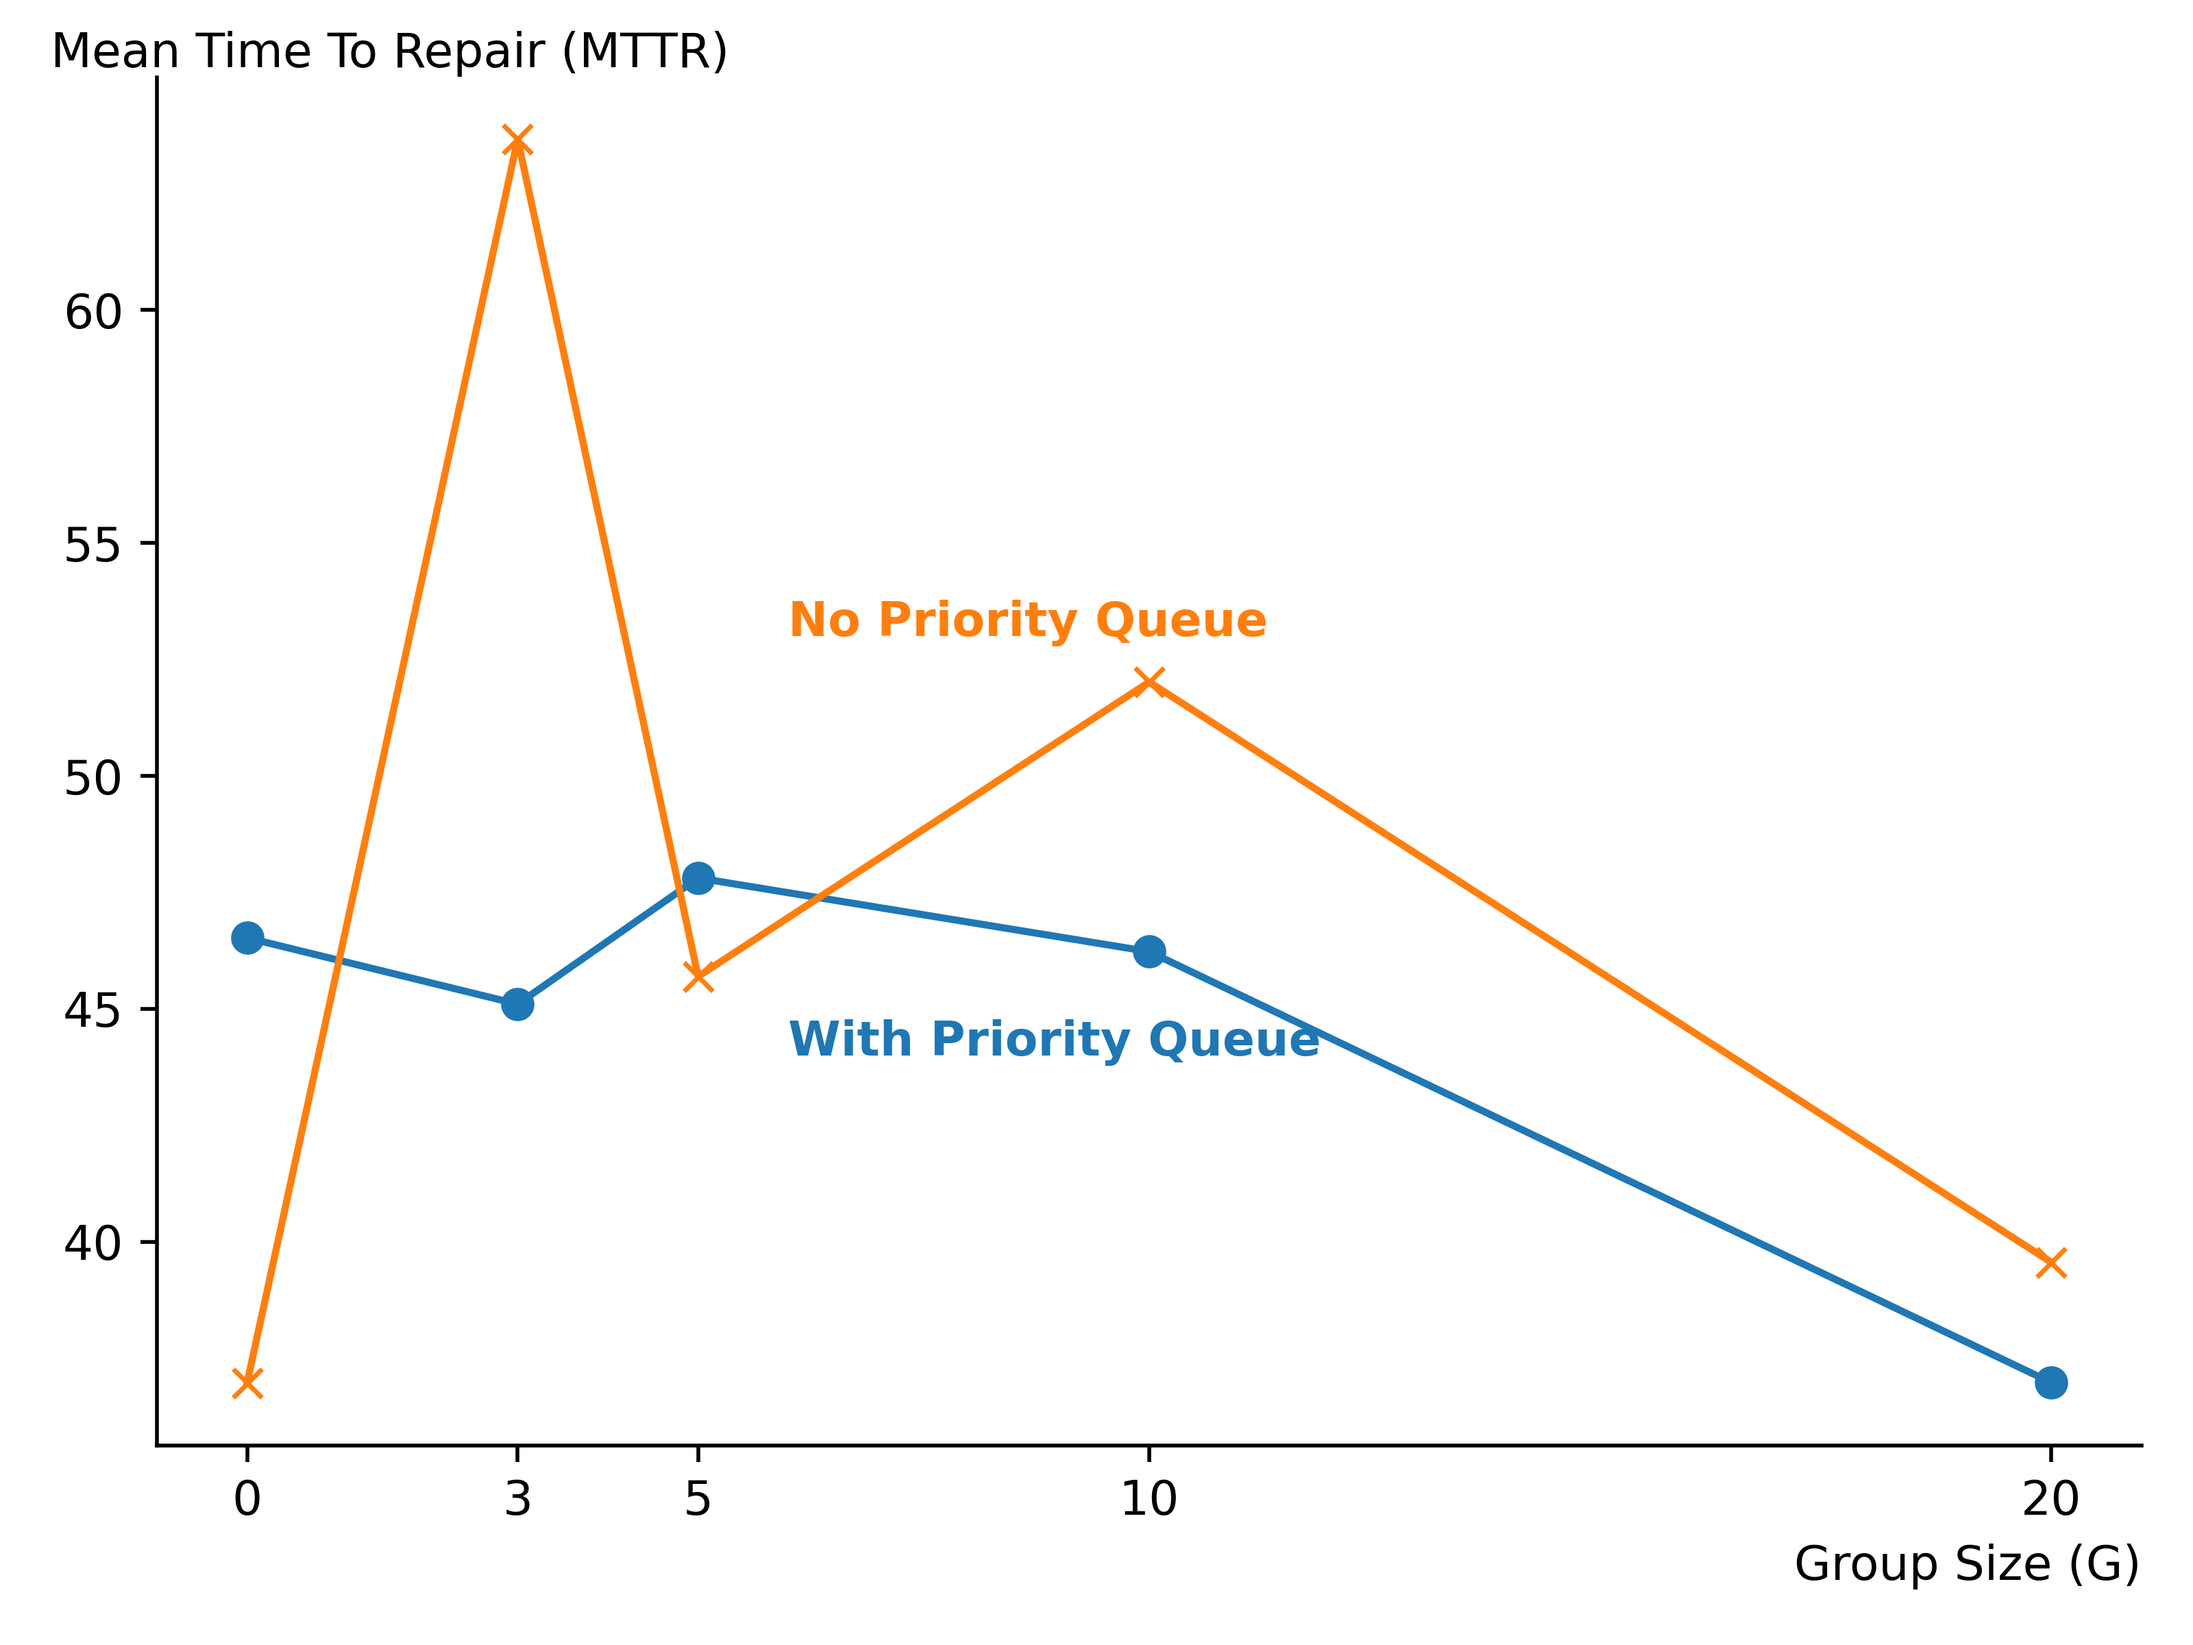
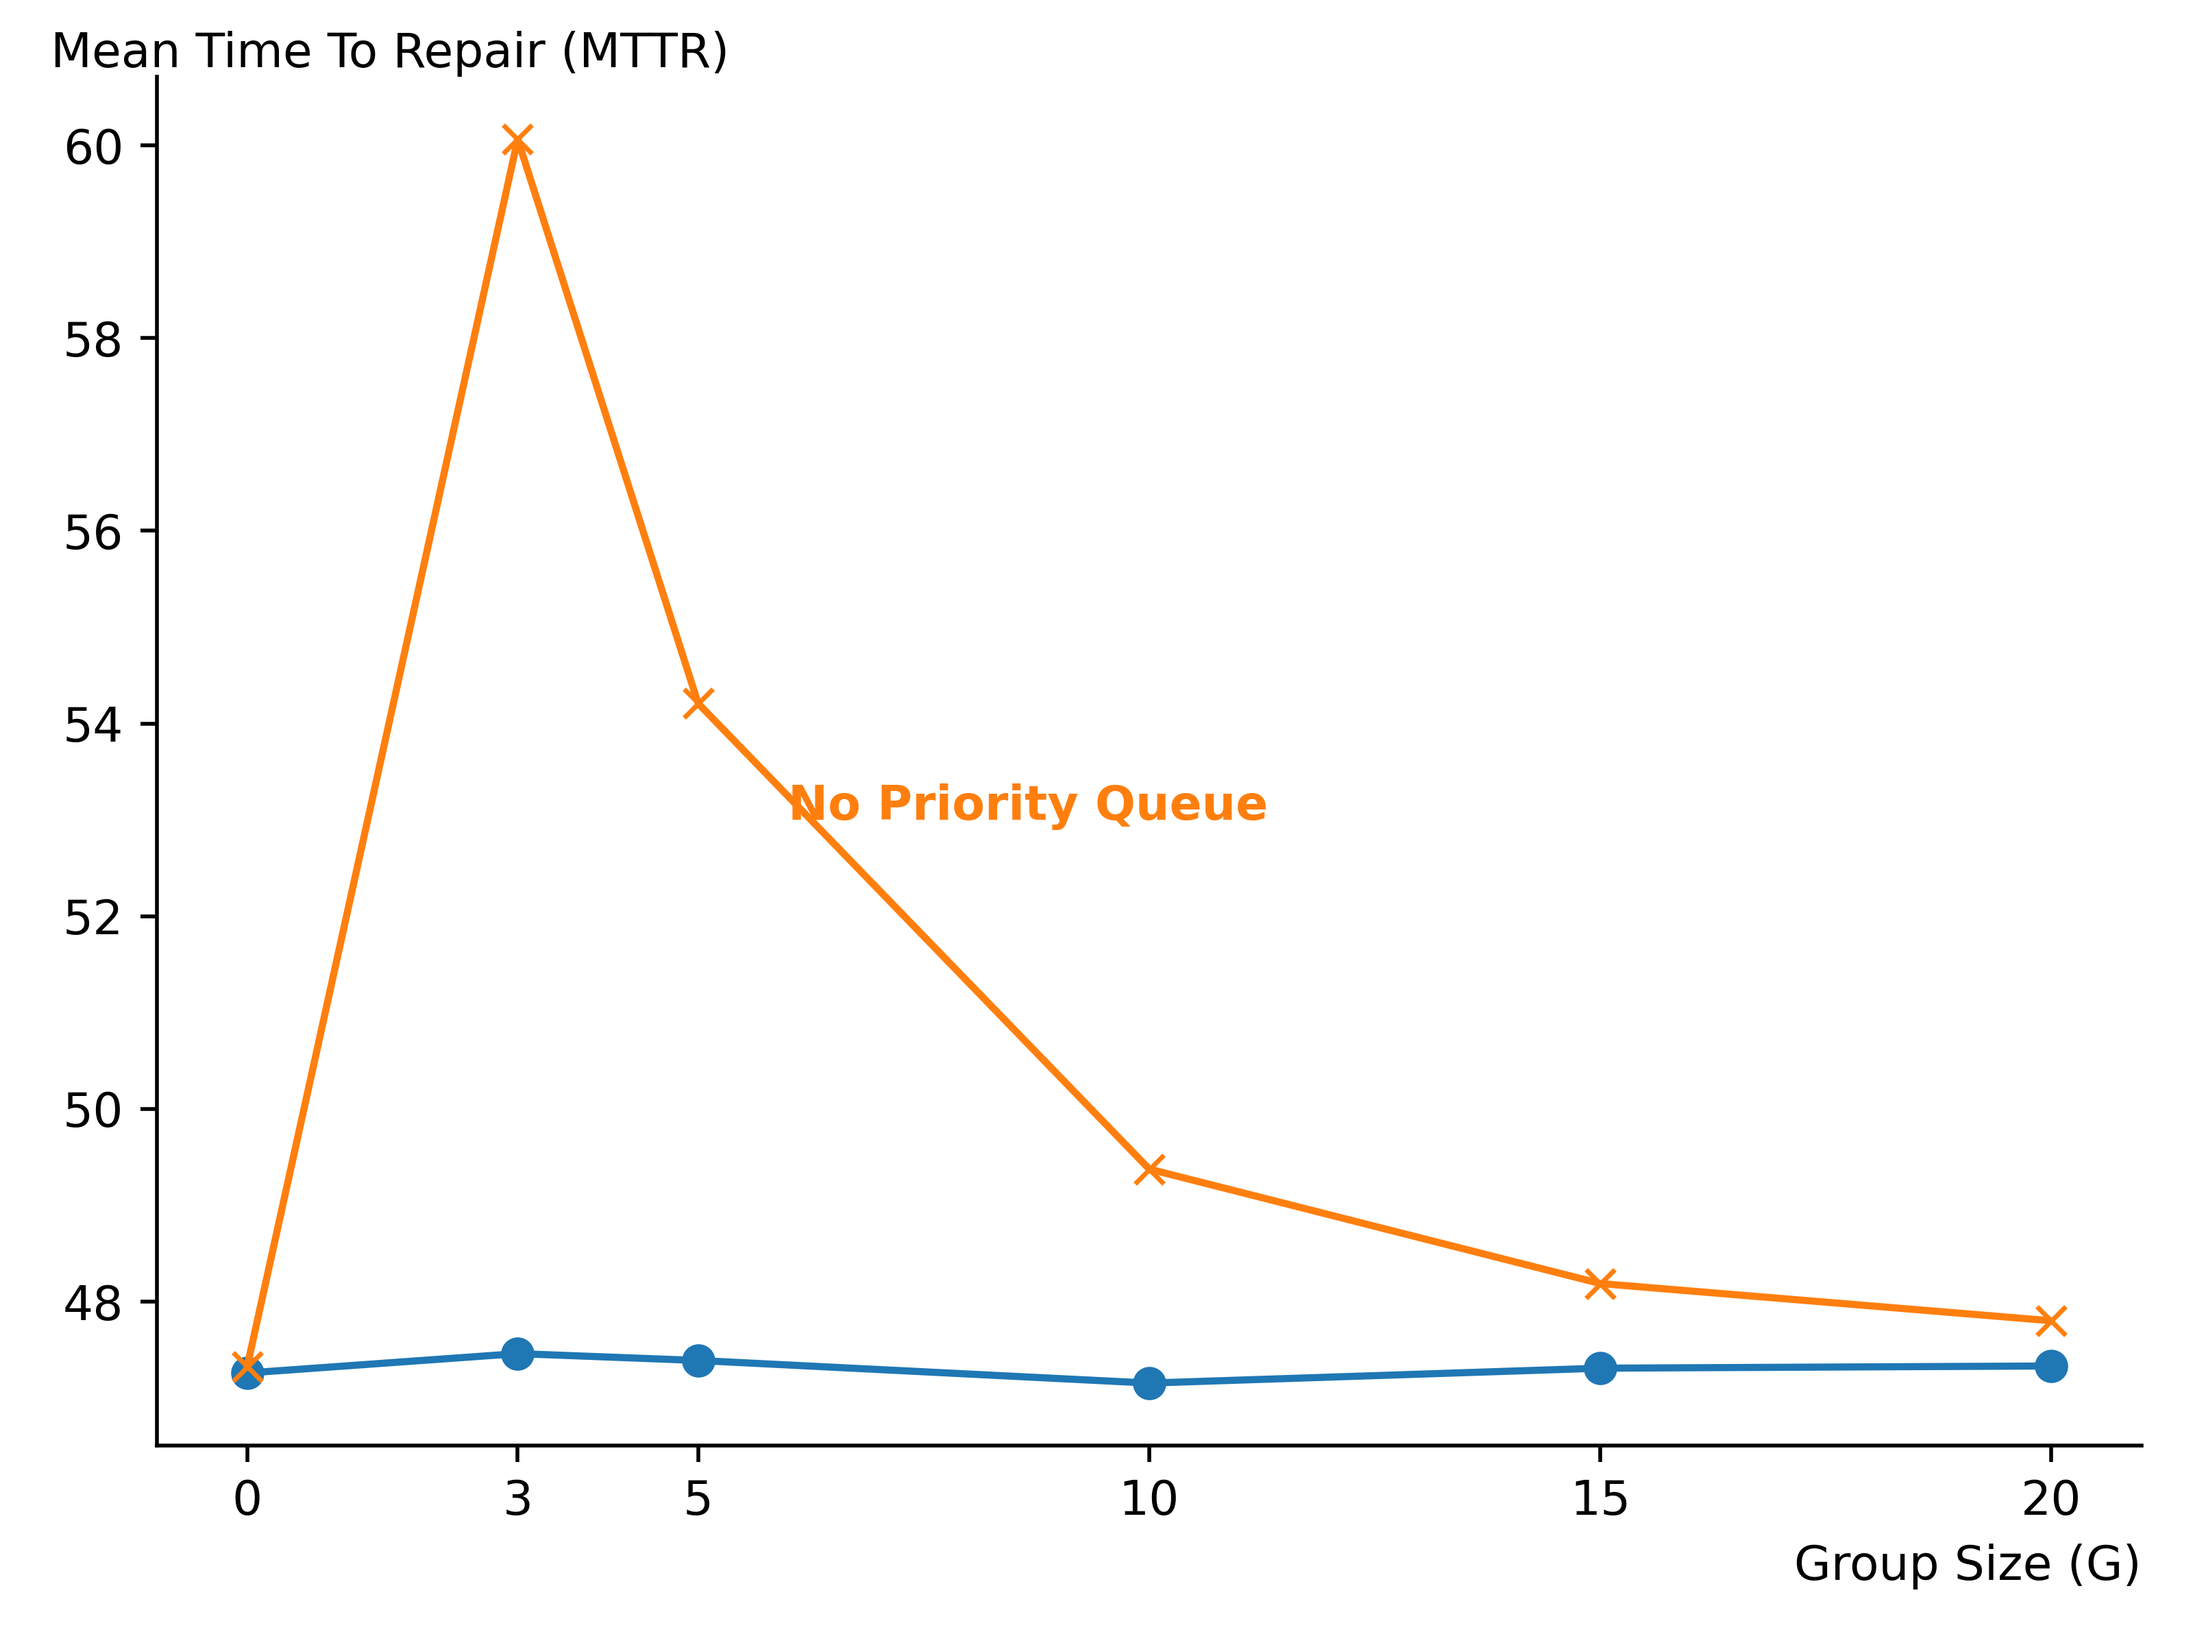
rerun dragon K3 noprio

diff --git a/utils/draw_mttr_groupsize.py b/utils/draw_mttr_groupsize.py
@@ -4,10 +4,10 @@ import pandas as pd
 
 mttr_list = [[],[]]
 QoI_list = [[],[]]
-for i, filename in enumerate(["pri30", "no30"]):
+for i, filename in enumerate(["True", "False"]):
 
-    for folder in ["K0", "K3", "K5", "K10", "K20"]:
-        input_path = f"/Users/shuqinzhu/Desktop/dragon/{folder}/dragon_D1_R10_T60_S6_N{filename}/dragon_D1_R10_T60_S6_N{filename}_final_report.xlsx"
+    for folder in ["K0", "K3", "K5", "K10", "K15", "K20"]:
+        input_path = f"/Users/shuqinzhu/Desktop/dragon/{folder}/dragon_D1_R10_T60_S6_P{filename}/dragon_D1_R10_T60_S6_P{filename}_final_report.xlsx"
 
         metrics_df = pd.read_excel(input_path, sheet_name='Metrics')
 
@@ -19,9 +19,9 @@ for i, filename in enumerate(["pri30", "no30"]):
 
 
 plt.figure()
-pri_line, = plt.plot([0, 3, 5, 10, 20], mttr_list[0], marker='o', label=f'With Priority Queue')
+pri_line, = plt.plot([0, 3, 5, 10, 15, 20], mttr_list[0], marker='o', label=f'With Priority Queue')
 
-nopri_line, = plt.plot([0, 3, 5, 10, 20], mttr_list[1], marker='x', label=f'No Priority Queue')
+nopri_line, = plt.plot([0, 3, 5, 10, 15, 20], mttr_list[1], marker='x', label=f'No Priority Queue')
 
 ax = plt.gca()
 ax.spines['right'].set_visible(False)
@@ -29,7 +29,7 @@ ax.spines['top'].set_visible(False)
 
 
 # Set x-axis to only show values in group_sizes list
-plt.xticks([0, 3, 5, 10, 20])
+plt.xticks([0, 3, 5, 10, 15, 20])
 
 ax.set_ylabel('Mean Time To Repair (MTTR)', loc='top', rotation=0, labelpad=-140)
 ax.set_xlabel('Group Size (G)', loc='right')
@@ -46,9 +46,9 @@ plt.savefig(f"../dragon_MTTR_groupsize_compare.png", dpi=500)
 plt.close()
 
 plt.figure()
-pri_line, = plt.plot([0, 3, 5, 10, 20], QoI_list[0], marker='o', label=f'With Priority Queue')
+pri_line, = plt.plot([0, 3, 5, 10, 15, 20], QoI_list[0], marker='o', label=f'With Priority Queue')
 
-nopri_line, = plt.plot([0, 3, 5, 10, 20], QoI_list[1], marker='x', label=f'No Priority Queue')
+nopri_line, = plt.plot([0, 3, 5, 10, 15, 20], QoI_list[1], marker='x', label=f'No Priority Queue')
 
 
 plt.text(8, 0.45, 'With Priority Queue', color=pri_line.get_color(), fontweight='bold')
@@ -61,7 +61,7 @@ ax.spines['right'].set_visible(False)
 ax.spines['top'].set_visible(False)
 
 # Set x-axis to only show values in group_sizes list
-plt.xticks([0, 3, 5, 10, 20])
+plt.xticks([0, 3, 5, 10, 15, 20])
 
 ax.set_ylabel('Quality of Illumination (QoI)', loc='top', rotation=0, labelpad=-133)
 ax.set_xlabel('Group Size (G)', loc='right')

diff --git a/gen_conf.py b/gen_conf.py
@@ -65,10 +65,10 @@ general_props = [
         "keys": ["K", "INPUT"],
         "values": [
             # {"K": "0", "INPUT": "'dragon_G3'"},
-            # {"K": "3", "INPUT": "'skateboard_G3'"},
+            {"K": "3", "INPUT": "'dragon_G3'"},
             # {"K": "5", "INPUT": "'skateboard_G5'"},
             # {"K": "10", "INPUT": "'skateboard_G10'"},
-            {"K": "15", "INPUT": "'dragon_G15'"},
+            # {"K": "15", "INPUT": "'dragon_G15'"},
             # {"K": "20", "INPUT": "'skateboard_G20'"},
             # {"K": "3", "INPUT": "'skateboard_K3'"},
             # {"K": "5", "INPUT": "'skateboard_K5'"},
@@ -113,7 +113,7 @@ general_props = [
 
     {
         "keys": ["PRIORITIZE_ILLUMINATING_FLS"],
-        "values": ["True"]
+        "values": ["False"]
     },
     # # {
     {
